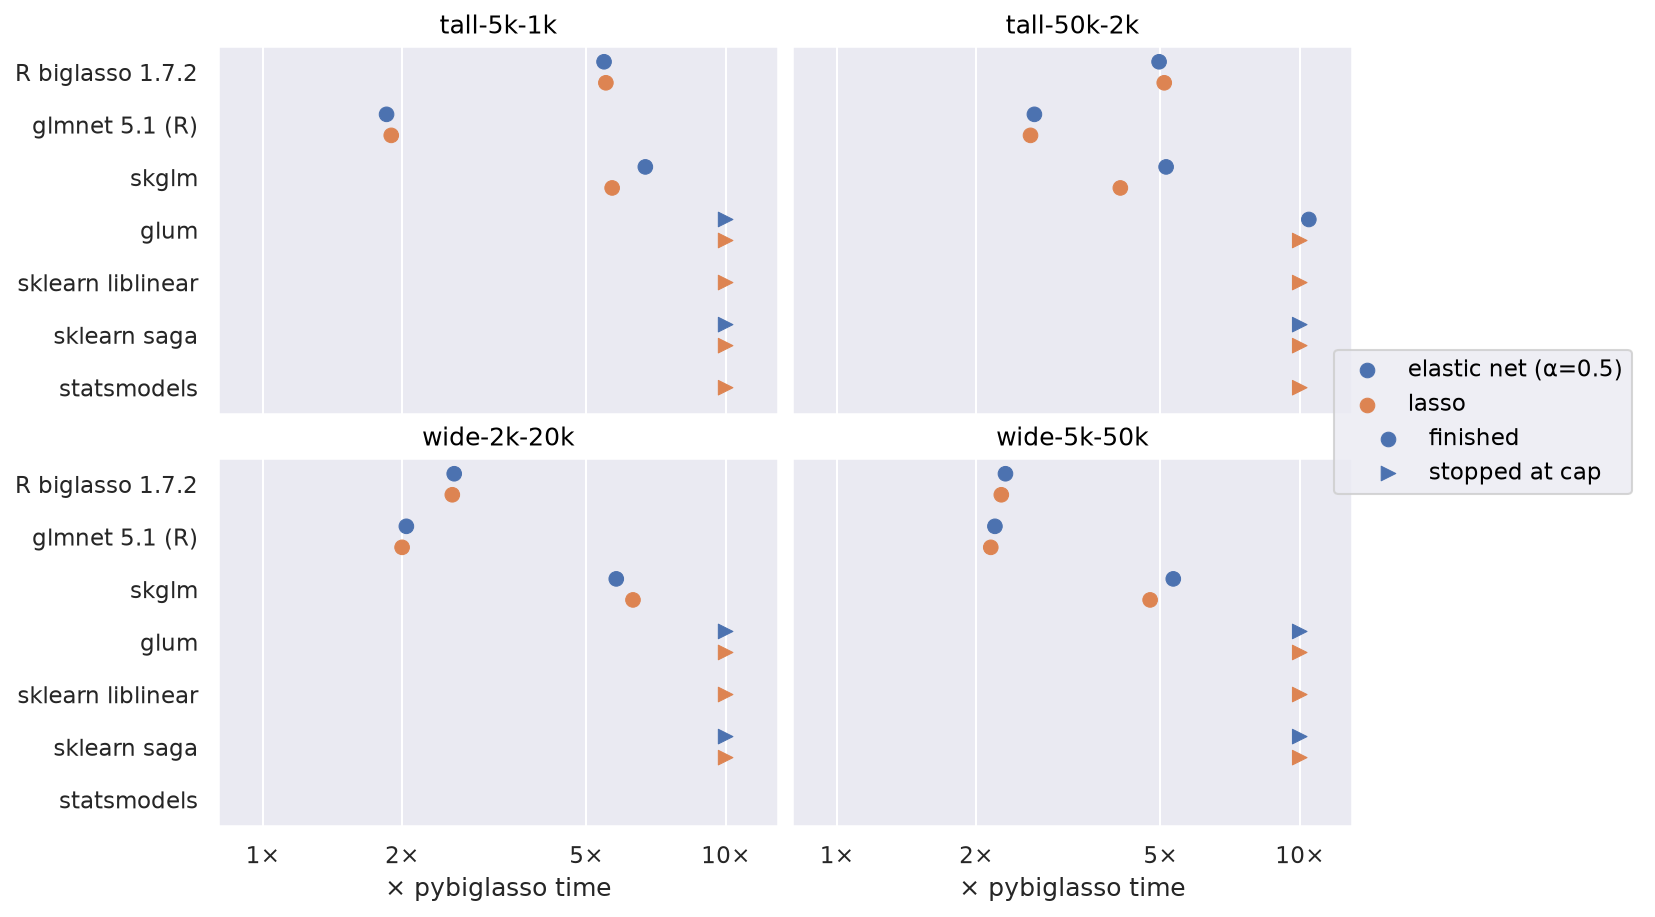
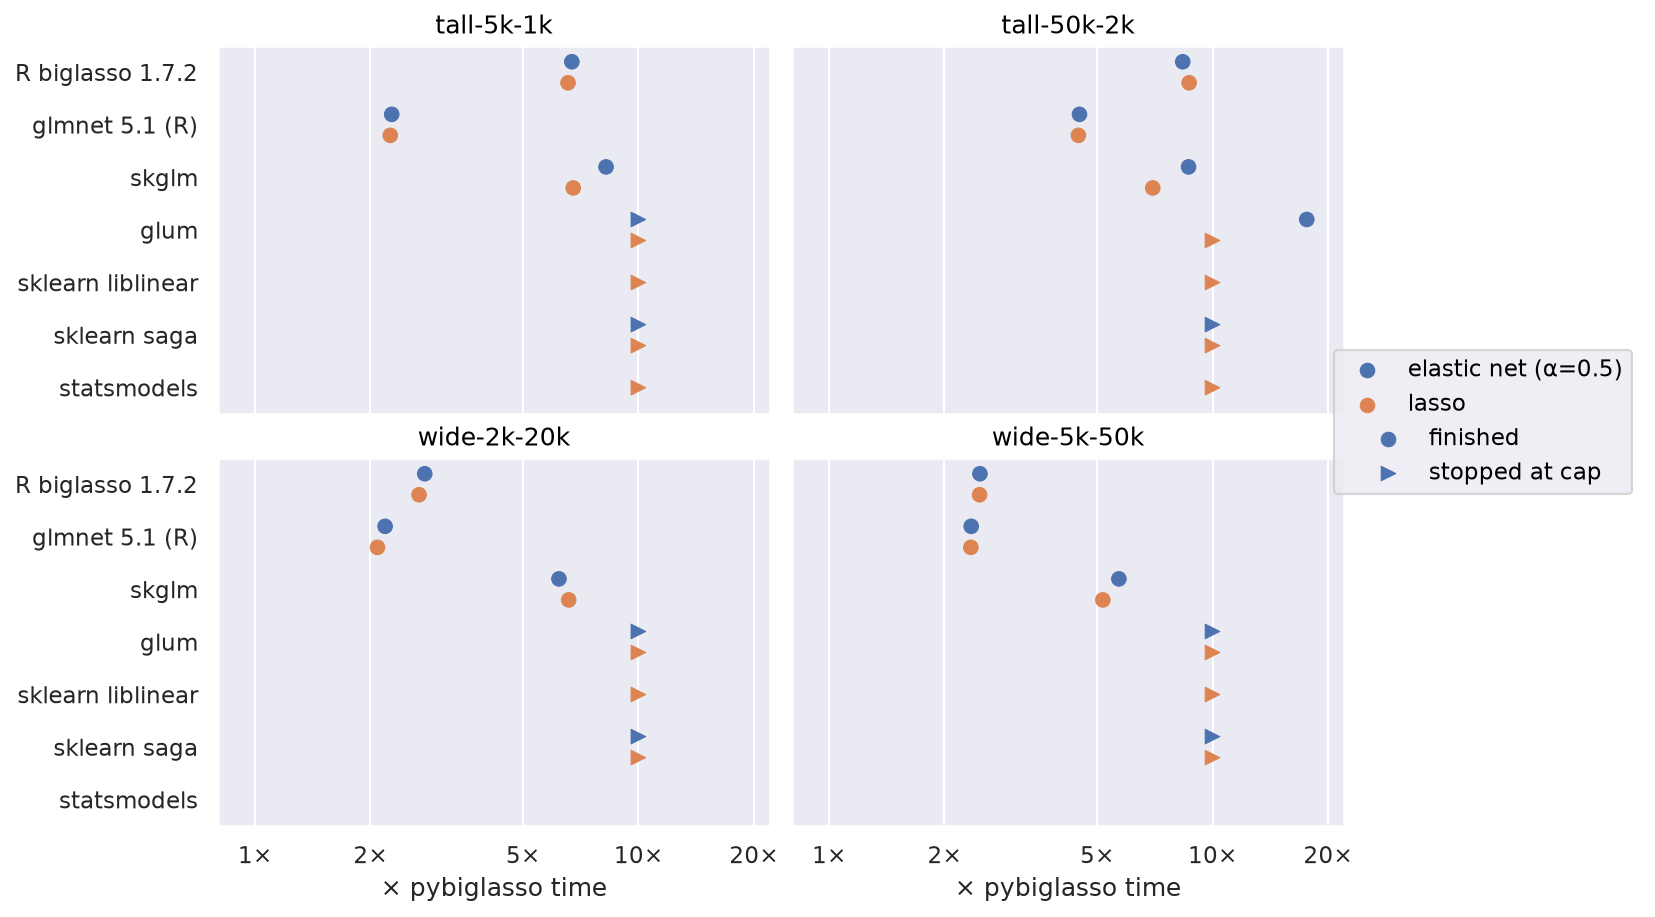
README benchmarks for 0.2.0: Rust timings, out of core, plot
pybiglasso's rows rerun on the same machine with 0.2.0 (path-v020.jsonl);
competitors' runs are unchanged. Out of core ran on the final code, agreeing
with R to 1e-9 with identical iterations; pybiglasso's two runs are both
shown, since the disk sets the pace. The plot's axis reaches 20x, so glum's
one finish, now beyond 10x, stays on it.

Claude-Session: https://claude.ai/code/session_011aQvDyzhtbc975RaquQfjL

diff --git a/benchmarks/plot.py b/benchmarks/plot.py
@@ -70,11 +70,13 @@ def main():
         )
         .add(so.Dot(pointsize=7), so.Dodge(empty="fill"))
         .scale(
-            x=so.Continuous(trans="log").tick(at=[1, 2, 5, 10]).label(like="{x:g}×"),
+            x=so.Continuous(trans="log")
+            .tick(at=[1, 2, 5, 10, 20])
+            .label(like="{x:g}×"),
             y=so.Nominal(order=order),
             marker=so.Nominal(["o", ">"], order=["finished", "stopped at cap"]),
         )
-        .limit(x=(0.8, 13))
+        .limit(x=(0.8, 22))
         .label(x="× pybiglasso time", y="", color="", marker="")
         .layout(size=(9, 6), engine="constrained")
     )

diff --git a/README.md b/README.md
@@ -24,11 +24,11 @@ path, with cross-validation to choose the penalty, without loading it into
 memory.
 
 It's also fast when the data does fit in memory. On a full 100-step lasso path
-over 5,000 samples by 50,000 features, it is 2.2x faster than R's glmnet, 2.3x
-faster than R biglasso, and 4.7x faster than skglm, the fastest of the other
+over 5,000 samples by 50,000 features, it is 2.3x faster than R's glmnet, 2.5x
+faster than R biglasso, and 5.2x faster than skglm, the fastest of the other
 Python solvers we tested. Across the four benchmark problems, with 1,000 to
-50,000 features, it runs 1.9–2.7x faster than glmnet, 2–5x faster than R
-biglasso, and 4–7x faster than skglm.
+50,000 features, it runs 2.1–4.5x faster than glmnet, 2.5–9x faster than R
+biglasso, and 5–9x faster than skglm.
 
 It is an unofficial Python port of the R package
 [biglasso](https://github.com/pbreheny/biglasso), and reproduces its results to
@@ -205,7 +205,7 @@ time is the best of 3 runs. Every multithreaded solver is shown at its fastest
 thread count: 1, 6, or 12. The scripts and raw results are in
 [`benchmarks/`](benchmarks/).
 
-![Time relative to pybiglasso, by dataset and solver](https://raw.githubusercontent.com/mmacpherson/pybiglasso/v0.1.1/docs/benchmarks.png)
+![Time relative to pybiglasso, by dataset and solver](https://raw.githubusercontent.com/mmacpherson/pybiglasso/v0.2.0/docs/benchmarks.png)
 
 **Which solvers.** R biglasso, the original; R's glmnet, whose coordinate
 descent biglasso builds on; and every maintained Python package, installable
@@ -213,8 +213,10 @@ with pip, that fits L1 or elastic-net logistic regression on a CPU: scikit-learn
 (its liblinear and saga solvers), glum, skglm, and statsmodels.
 
 **Other Python solvers.** Each competitor was stopped once it took 10x as long
-as pybiglasso, which would otherwise have stretched the run to many hours. Only
-skglm finishes within that on every dataset, at 4–6x for the lasso and 5–7x for
+as pybiglasso, which would otherwise have stretched the run to many hours. (The
+competitors ran against 0.1.x, whose times set the cap; 0.2.0 is faster, so
+glum's one finish, the 50,000 x 2,000 elastic net on 12 threads, is now 18x.) Only
+skglm finishes within that on every dataset, at 5–7x for the lasso and 6–9x for
 the elastic net. statsmodels
 (lasso only) ran only on the tall datasets: its L1 fit uses a general-purpose
 optimizer with dense matrices over twice the columns, which would need about
@@ -223,39 +225,38 @@ large the gaps get, the smallest problem (5,000 x 1,000) also ran with no cap:
 
 | Solver | Lasso | Elastic net (α=0.5) | Worst relative suboptimality |
 |---|---|---|---|
-| pybiglasso | 0.71 s | 0.74 s | 1e-6 |
-| pybiglasso, `eps=1e-10` | 1.62 s | 1.54 s | 3e-10 |
-| glmnet 5.1 (R) | 1.4 s (1.9x) | 1.4 s (1.9x) | 2e-6 |
-| skglm | 4.1 s (6x) | 4.4 s (6x) | 2e-4 |
-| glum, 6 threads | 9.6 s (14x) | 10.9 s (15x) | 6e-9 |
-| sklearn liblinear | 20.5 s (29x) | — | 5e-6 |
-| sklearn saga | 90.7 s (128x) | 94.8 s (128x) | 1e-5 |
+| pybiglasso | 0.60 s | 0.60 s | 1e-6 |
+| pybiglasso, `eps=1e-10` | 1.37 s | 1.34 s | 3e-10 |
+| glmnet 5.1 (R) | 1.4 s (2.3x) | 1.4 s (2.3x) | 2e-6 |
+| skglm | 4.1 s (7x) | 4.4 s (7x) | 2e-4 |
+| glum, 6 threads | 9.6 s (16x) | 10.9 s (18x) | 6e-9 |
+| sklearn liblinear | 20.5 s (34x) | — | 5e-6 |
+| sklearn saga | 90.7 s (151x) | 94.8 s (157x) | 1e-5 |
 | statsmodels | over 900 s (over 1,000x) | — | — |
 
 **R biglasso 1.7.2.** Times are in seconds; "best" is each package at its
 fastest thread count. For the lasso, both packages fit identical paths. For the
 elastic net, each ran its own update (see
 [Differences](#differences-from-r-biglasso)); pybiglasso with
-`r_compatible=True`, which matches R, is within about 20% of its default's
-time.
+`r_compatible=True`, which matches R, takes about as long as its default.
 
 | Dataset | Penalty | pybiglasso, 1 thread | R, 1 thread | pybiglasso, best | R, best | Speedup (best) |
 |---|---|---|---|---|---|---|
-| 5,000 x 1,000 | lasso | 0.77 | 4.06 | 0.71 | 3.92 | 5.5x |
-| 5,000 x 1,000 | elastic net | 0.74 | 4.17 | 0.74 | 4.04 | 5.5x |
-| 50,000 x 2,000 | lasso | 11.5 | 55.7 | 10.6 | 54.1 | 5.1x |
-| 50,000 x 2,000 | elastic net | 11.7 | 56.1 | 10.6 | 52.9 | 5.0x |
-| 2,000 x 20,000 | lasso | 1.33 | 4.71 | 1.13 | 2.90 | 2.6x |
-| 2,000 x 20,000 | elastic net | 1.35 | 4.80 | 1.15 | 2.99 | 2.6x |
-| 5,000 x 50,000 | lasso | 8.61 | 27.2 | 6.86 | 15.5 | 2.3x |
-| 5,000 x 50,000 | elastic net | 8.05 | 27.5 | 6.86 | 15.9 | 2.3x |
+| 5,000 x 1,000 | lasso | 0.62 | 4.06 | 0.60 | 3.92 | 6.5x |
+| 5,000 x 1,000 | elastic net | 0.63 | 4.17 | 0.60 | 4.04 | 6.7x |
+| 50,000 x 2,000 | lasso | 9.31 | 55.7 | 6.23 | 54.1 | 8.7x |
+| 50,000 x 2,000 | elastic net | 9.35 | 56.1 | 6.32 | 52.9 | 8.4x |
+| 2,000 x 20,000 | lasso | 1.23 | 4.71 | 1.08 | 2.90 | 2.7x |
+| 2,000 x 20,000 | elastic net | 1.31 | 4.80 | 1.08 | 2.99 | 2.8x |
+| 5,000 x 50,000 | lasso | 7.45 | 27.2 | 6.29 | 15.5 | 2.5x |
+| 5,000 x 50,000 | elastic net | 7.43 | 27.5 | 6.42 | 15.9 | 2.5x |
 
 R's adaptive screening rule is no faster than SSR on these problems.
 
 **glmnet 5.1.** glmnet fit the standardized matrix as given (`standardize =
 FALSE`), with an intercept, along the same lambda grid, at its default
 tolerance; it runs on one thread. Its objective is the benchmark's. It fit
-every path in full, at 1.9–2.7x pybiglasso's best time (1.7–2.4x pybiglasso's
+every path in full, at 2.1–4.5x pybiglasso's best time (1.8–3.0x pybiglasso's
 on one thread), and about as accurately: a worst relative suboptimality of 2e-8
 to 3e-6, against pybiglasso's 6e-8 to 3e-6.
 
@@ -264,16 +265,17 @@ memory capped at 3 GB. pybiglasso read a numpy memmap under a cgroup memory
 limit; R read a file-backed `big.matrix` in a container with the same limit,
 and both were measured from their cgroup's accounting. Before each run, the
 matrix was evicted from the page cache. Both fit the same 20-lambda lasso path
-and agree to 1e-9, with identical iteration counts.
+and agree to 1e-9, with identical iteration counts. pybiglasso ran twice, and
+both runs are shown; R ran once.
 
 | | Fit time | Peak memory | Re-read from disk during the fit |
 |---|---|---|---|
-| pybiglasso, 1 thread | 108 s | 3.2 GB (at the cap) | 8.6 GB |
-| pybiglasso, 6 threads | 137 s | 3.2 GB (at the cap) | 16.0 GB |
-| R biglasso 1.7.2 | 182 s, plus 43 s to build the `big.matrix` | 3.2 GB (at the cap) | 16.5 GB |
+| pybiglasso, 1 thread | 111 s, 131 s | 3.2 GB (at the cap) | 7.9 GB, 10.9 GB |
+| pybiglasso, 6 threads | 109 s, 151 s | 3.2 GB (at the cap) | 13.3 GB, 15.1 GB |
+| R biglasso 1.7.2 | 148 s, plus 41 s to build the `big.matrix` | 3.2 GB (at the cap) | 10.6 GB |
 
-Under the same limit, R re-reads about twice as much of the matrix from disk.
-Extra threads hurt here: they evict pages each other still need.
+Here the disk sets the pace, and times vary by a third from run to run. Extra
+threads don't reliably help: they evict pages each other still need.
 
 **Not compared**, by the rule above:
 
